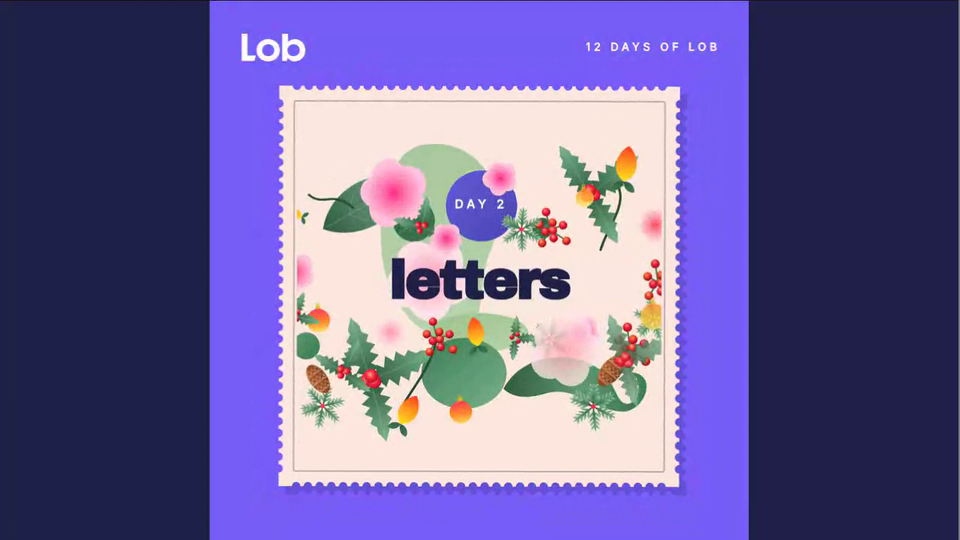
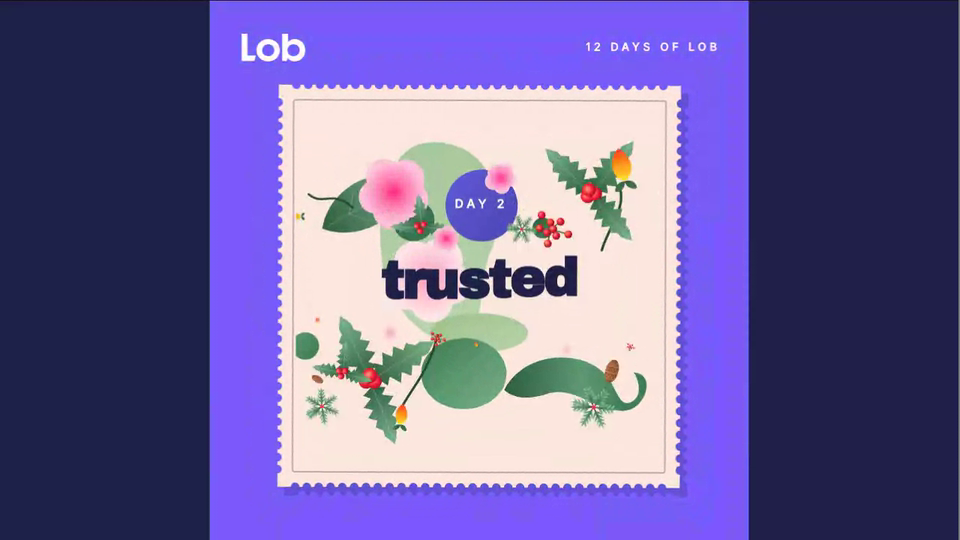
Lob 12 Days Advent: one-word mail facts as day titles
Claude-Session: https://claude.ai/code/session_01AHeBdxfESGkB61WPERPkmT

Changed region(s): [[0.2812, 0.1481, 0.7188, 0.9185], [0.4688, 0.7407, 0.5, 0.8], [0.4062, 0.2963, 0.4375, 0.3259]]

diff --git a/lob-12-days/index.html b/lob-12-days/index.html
@@ -46,7 +46,7 @@ const CLIP=location.hash==='#clip';
 if(CLIP)document.body.classList.add('clip');
 const LW=4,S=1080;
 const C={bg:'#F8E0F9',shadow:'#F1B9F0',navy:'#1F2149',tab:'#2B2D6D',mag:'#B042C2',lime:'#C9DA6A',blue:'#5049BC',card:'#D244DE',panel:'#E084E9',pale:'#E88EEE',yellow:'#EAF265',btn:'#4534F2',btnDown:'#2A1BC4',plus:'#9382F4',chip:'#D489E4',chipInk:'#8F1A96',white:'#fff'};
-const titles=['Postcards','Letters','Self mailers','Snap packs','Checks','Booklets','Addresses','QR codes','Tracking','Templates','Cards','Thank you'];
+const titles=['Tangible','Trusted','Opened','Personal','Memorable','Measurable','Targeted','Responsive','Seasonal','Lasting','Delivered','Cherished'];
 const D=4.4;
 let day=0,lt=CLIP?1.9:0,playing=true,speed=CLIP?2:1,T=0;
 const cv=document.getElementById('c'),x=cv.getContext('2d');
